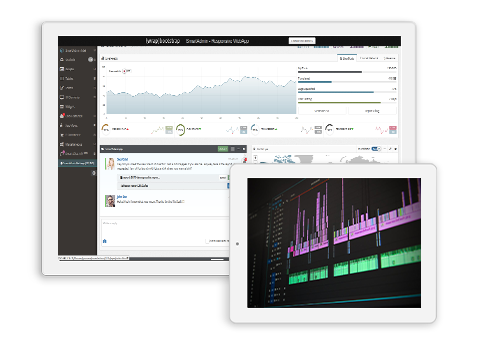
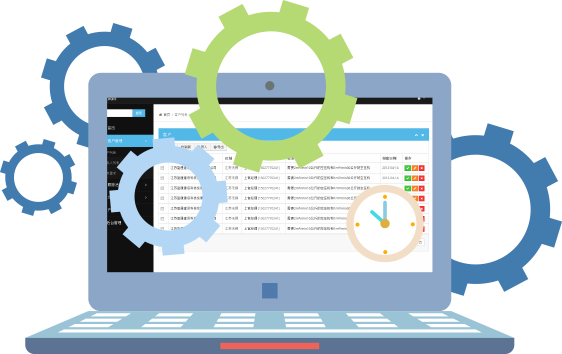
eiko
上传代码

diff --git a/index.html b/index.html
@@ -179,7 +179,7 @@
                             <div class="col-lg-5 col-md-5 col-sm-5 scrollanimate animated fadeInUp"
                                  data-animate="fadeInUp">
                                 <div class="">
-                                    <h4><span>Bank解决方案</span></h4>
+                                    <h4><span>Broker Agent解决方案</span></h4>
                                     有点科技帮助客户得到更加专业的全方位服务，减少您系统管理和维护的90%的工作，以更专业的身份，更快捷
                                     <ul>
                                         <li>风控体系健全</li>
@@ -203,7 +203,7 @@
                         </div>
                     </div>
                 </div>
-                <h2>bank解决方案</h2>
+                <h2>顶级流动性与顶级银行报价</h2>
             </div>
         </section>
         <section id="work-LPS">
@@ -212,11 +212,11 @@
                     <div class="row">
                         <div class="visible-xs col-lg-5 col-md-4 col-sm-4 imgbox scrollanimate"
                              data-animate="fadeInDown">
-                            <img src="./static/img/echart-LPS.png">
+                            <img src="./static/img/bank_bg.png">
                         </div>
                         <div class="hidden-xs col-lg-6 col-md-4 col-sm-4 imgbox scrollanimate "
                              data-animate="fadeInLeft">
-                            <img src="./static/img/echart-LPS.png">
+                            <img src="./static/img/bank_bg.png">
                         </div>
                         <div class="col-lg-5 col-md-8 col-sm-8 scrollanimate" data-animate="fadeInRight">
                             <h4><span>世界顶级投资银行LPS</span></h4>
@@ -246,11 +246,11 @@
                                     </div>
                                     <button type="button" class="button-more" onclick="javascript:window.location.href = './views/CRM.html'">READ MORE</button>
                                 </div>
-                                <div class="visible-xs col-lg-5 col-sm-4 col-lg-offset-1 imgbox scrollanimate"
+                                <div class="visible-xs col-lg-5 col-lg-offset-2 col-sm-4 col-lg-offset-1 imgbox scrollanimate"
                                      data-animate="fadeInDown">
                                     <img src="./static/img/echart-CRM.png" class="img-responsive">
                                 </div>
-                                <div class="hidden-xs col-lg-6 col-md-4 col-sm-4  imgbox scrollanimate"
+                                <div class="hidden-xs col-lg-6 col-lg-offset-2 col-md-4 col-sm-4  imgbox scrollanimate"
                                      data-animate="fadeInDown">
                                     <img src="./static/img/echart-CRM.png">
                                 </div>

diff --git a/views/register.html b/views/register.html
@@ -108,12 +108,12 @@
                     <li class="col-lg-2 col-md-2 col-sm-2 col-xs-2"><a href="sanfang.html">三方支付申请</a></li>
                     <li class="col-lg-2 col-md-2 col-sm-2 col-xs-2"><a href="CRM.html">CRM管理系统</a></li>
                     <li class="col-lg-1">
-                        <div id="nextRE"><i class="fa fa-angle-double-right fa-lg"></i></div>
+                        <div id="nextRE"><i class="fa fa-angle-right fa-lg"></i></div>
                     </li>
                 </ul>
                 <ul class="two-show clickhide">
                     <li style="float:left;width: 4.5%;margin-left: 4.5%">
-                        <div id="pre" class="clickhide"><i class="fa fa-angle-double-left fa-lg"></i></div>
+                        <div id="pre" class="clickhide"><i class="fa fa-angle-left fa-lg"></i></div>
                     </li>
                     <li class="col-lg-2 col-md-2 col-sm-2 col-xs-2"><a href="liudong.html">流动性提供商</a></li>
                     <li class="col-lg-2 col-md-2 col-sm-2 col-xs-2"><a href="site.html">金融网站搭建</a></li>

diff --git a/views/company.html b/views/company.html
@@ -279,7 +279,7 @@
             <div class="col-lg-4 col-sm-4 col-md-4 col-xs-8 col-lg-offset-1 col-xs-offset-1">
                 <div class="register-icon Australia">
                     <span><h3 class="register-h3"> 澳大利亚</h3>
-                     <p class="color-666">身份隐秘，税务筹划</p></span>
+                     <p class="color-666" style="visibility: hidden">身份隐秘，税务筹划</p></span>
                 </div>
                 <ul class="register-p">
                     <li></li>
@@ -288,7 +288,7 @@
             <div class="col-lg-4 col-sm-4 col-md-4 col-xs-8 col-lg-offset-2 col-xs-offset-2">
                 <div class="register-icon Samoa">
                     <span><h3 class="register-h3">萨摩尔</h3>
-                     <p class="color-666">身份隐秘，税务筹划</p></span>
+                     <p class="color-666" style="visibility: hidden">身份隐秘，税务筹划</p></span>
                 </div>
                 <ul class="register-p"></ul>
             </div>

diff --git a/static/css/index.css b/static/css/index.css
@@ -233,6 +233,9 @@ body{
 #work-CRM h2:nth-child(3) {
     padding: 10px 0 26px;
 }
+ .work-crm{
+    padding: 35px;
+}
 #MT4-platform .MT4-left-top{
 	padding: 30px;
 }
@@ -393,6 +396,9 @@ body{
 }
 
 @media(min-width: 1200px) {
+    #work-CRM img {
+        width: 80%;
+    }
 	#client .row{width:1104px;}
 	#client .client1,#client .client2,#client .client3,#client .client6,#client .client5,#client .client7,#client .client9{border-right:dashed 1px #eaeaea}
 	#client .client1,#client .client2,#client .client3,#client .client4{border-bottom:dashed 1px #eaeaea}

diff --git a/static/css/common-scheme.css b/static/css/common-scheme.css
@@ -130,7 +130,7 @@
     /*margin-top: 20px;*/
     /*margin-right: -72px;*/
     color: #65c6ff;
-    font-size: 2em;
+    font-size: 1.7em;
 }
 
 #pre {
